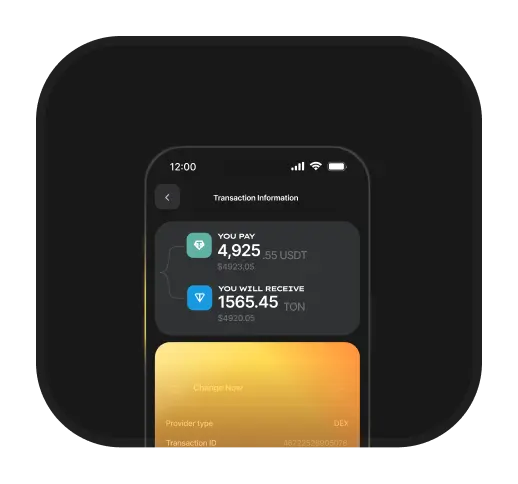
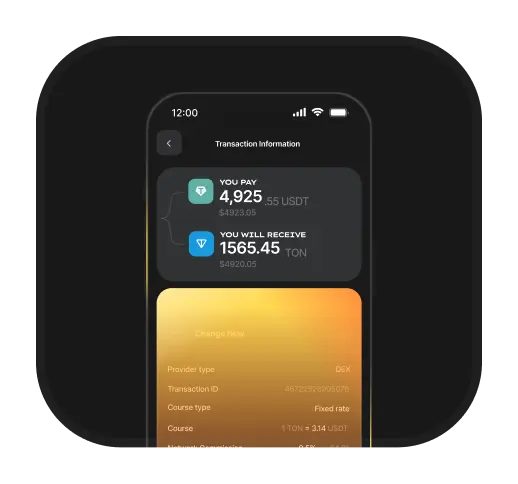
Redesign hero section and card fan animation
- Card fan: fix z-index stacking order, increase FAN_OFFSET to 55px, update spread thresholds
- Intro height: set to 80vh (fixed from 100vh so pin spacer is built correctly, making fan visible)
- Hero greeting: 'Hi. I'm' with period, 28px/300 weight/1.2 line-height, indented 92px to align with avatar
- Hero name: 28px/300 weight/1.2 line-height, margin-bottom 12px
- Hero buttons: 13px font, padding 16px 24px
- Hero layout: hero-inner widened to 976px to match nav pill content width
- ExpComp: top-aligned, 88px height, default 0deg rotation, 10deg on hover
- Intro hover tilt: increased to 12deg
- Nav-inner: restored to 896px

Changed region(s): [[0.278, 0.2169, 0.7413, 0.9298], [0.3089, 0.186, 0.7104, 0.2479]]

diff --git a/index.html b/index.html
@@ -231,13 +231,13 @@
       justify-content: flex-start;
     }
     .hero-inner {
-      max-width: 896px;
+      max-width: 976px;
       margin: 0 auto;
       padding: 48px 40px;
       display: flex;
       flex-direction: column;
     }
-    .hero-greeting { display: flex; flex-direction: column; padding: 0 8px; }
+    .hero-greeting { display: flex; flex-direction: column; padding: 0 8px 0 92px; }
     .hero-middle {
       display: flex;
       flex-direction: row;
@@ -263,18 +263,19 @@
 
     .greeting {
       font-family: 'Unbounded', sans-serif;
-      font-size: 30px; font-weight: 200;
+      font-size: 28px; font-weight: 300;
+      line-height: 1.2;
       color: rgba(255,255,255,0.4);
       margin-bottom: 2px;
     }
     .hero-name {
       font-family: 'Unbounded', sans-serif;
-      font-size: 36px;
-      font-weight: 400;
-      line-height: 1.02;
+      font-size: 28px;
+      font-weight: 300;
+      line-height: 1.2;
       letter-spacing: -0.025em;
       color: var(--text);
-      margin-bottom: 28px;
+      margin-bottom: 12px;
     }
     .hero-avatar-wrap {
       display: flex;
@@ -350,11 +351,11 @@
     }
     .btn-primary {
       display: inline-flex; align-items: center;
-      padding: 12px 28px;
+      padding: 16px 24px;
       background: linear-gradient(180deg, #353537 0%, #1f1e1e 100%);
       color: #fff;
       font-family: 'Unbounded', sans-serif;
-      font-size: 11px; font-weight: 300;
+      font-size: 13px; font-weight: 300;
       letter-spacing: 0.02em;
       border-radius: 12px;
       text-decoration: none;
@@ -371,12 +372,12 @@
     .btn-primary:hover { opacity: 0.85; transform: translateY(-1px); }
     .btn-secondary {
       display: inline-flex; align-items: center; gap: 9px;
-      padding: 12px 24px;
+      padding: 16px 24px;
       background: rgba(72,55,243,0.08);
       border: 1px solid rgba(72,55,243,0.45);
       color: var(--text);
       font-family: 'Unbounded', sans-serif;
-      font-size: 11px; font-weight: 300;
+      font-size: 13px; font-weight: 300;
       letter-spacing: 0.02em;
       border-radius: 12px;
       text-decoration: none;
@@ -389,7 +390,8 @@
     .exp-card {
       flex-shrink: 0;
       width: auto;
-      transform: rotate(3deg);
+      align-self: flex-start;
+      transform: rotate(0deg);
       transform-origin: center center;
       transition: transform 0.35s cubic-bezier(0.34, 1.56, 0.64, 1);
       cursor: grab;
@@ -397,7 +399,7 @@
       position: relative;
     }
     .exp-card:hover {
-      transform: rotate(12deg);
+      transform: rotate(10deg);
     }
     .exp-card.dragging {
       cursor: grabbing;
@@ -407,58 +409,29 @@
     }
     .exp-card img {
       width: auto;
-      height: 120px;
+      height: 88px;
       display: block;
     }
 
     /* ─── CASE STUDIES STACK ─── */
-    .case-stack {
-      --cs-card-h: 400px;
-      padding: 0 2.5vw;
-      min-height: 400vh;
-      margin-bottom: 0vh;
-    }
-    .cs-all {
+    .case-stack { padding: 0 2.5vw; }
+    .cs-cards {
       display: flex;
       flex-direction: column;
-    }
-    .cs-23 {
-      display: flex;
-      flex-direction: column;
-      margin-top: calc(-1 * var(--cs-card-h, 680px));
+      gap: 24px;
     }
     .cs-card {
       width: 100%;
       aspect-ratio: 1120 / 672;
       border-radius: 24px;
-      position: sticky;
       overflow: hidden;
+      position: relative;
+      will-change: transform;
     }
-    .cs-card-1 { top: 80px;  z-index: 1; background: #fdd8d8; }
-    .cs-card-2 { top: 120px; z-index: 2; background: #f5f3f2; }
-    .cs-card-3 { top: 140px; z-index: 3; background: #dcdaf5; margin-top: calc(-1 * var(--cs-card-h, 680px)); transition: margin-top 0.6s cubic-bezier(0.25,0.46,0.45,0.94); }
-    .cs-23 { transition: margin-top 0.6s cubic-bezier(0.25,0.46,0.45,0.94); }
-
-    /* State 1: hero in view, cards staggered-stacked */
-    /* actual card height = 95vw × (672/1120) = 57vw — used directly so --cs-card-h override doesn't affect State 1 */
-    .case-stack[data-state="1"] .cs-23     { margin-top: calc(-57vw + 40px); }
-    .case-stack[data-state="1"] .cs-card-3 { margin-top: calc(-57vw + 40px); }
-
-    /* State 2: card 1 in view, cards spread out */
-    .case-stack[data-state="2"] .cs-23     { margin-top: -20px; }
-    .case-stack[data-state="2"] .cs-card-3 { margin-top: -20px; }
-
-    /* State 3: card 2 in view */
-    .case-stack[data-state="3"] .cs-23     { margin-top: calc(-1 * var(--cs-card-h, 680px)); }
-    .case-stack[data-state="3"] .cs-card-3 { margin-top: 360px; }
-
-    /* State 4: card 3 snaps into sticky view */
-    .case-stack[data-state="4"] .cs-23     { margin-top: calc(-1 * var(--cs-card-h, 680px)); }
-    .case-stack[data-state="4"] .cs-card-3 { margin-top: calc(-57vw + 40px); }
-
-    /* State 5: scroll done — return to staggered stack like State 1 */
-    .case-stack[data-state="5"] .cs-23     { margin-top: calc(-57vw + 40px); }
-    .case-stack[data-state="5"] .cs-card-3 { margin-top: calc(-57vw + 40px); }
+    /* card-3 has highest z-index: it's pulled up most in the fan and sits in front */
+    .cs-card-1 { z-index: 1; background: #fdd8d8; }
+    .cs-card-2 { z-index: 2; background: #f5f3f2; }
+    .cs-card-3 { z-index: 3; background: #dcdaf5; }
 
     /* Card 4: AI Product Builds — rises in from below after card 3 */
     .cs-card-4 {
@@ -1070,12 +1043,8 @@
 
     #intro {
       position: relative;
-      height: 100vh;
-      transition: height 0.6s ease;
+      height: 80vh;
       background: var(--bg);
-    }
-    #intro.intro-hero-visible {
-      height: 85vh;
     }
 
     .intro-stage {
@@ -1098,7 +1067,7 @@
     .intro-hello {
       font-family: 'Unbounded', sans-serif;
       font-size: 24vw;
-      font-weight: 800;
+      font-weight: 300;
       line-height: 0.85;
       letter-spacing: -0.1em;
       width: max-content;
@@ -1215,8 +1184,8 @@
       <div class="hero-inner">
 
         <div class="hero-greeting">
-          <p class="greeting">Hi, I'm</p>
-          <h1 class="hero-name">OLA FAKOMI</h1>
+          <p class="greeting">Hi. I'm</p>
+          <h1 class="hero-name">Ola Fakomi</h1>
         </div>
 
         <div class="hero-middle">
@@ -1257,12 +1226,10 @@
 
   <!-- ─── CASE STUDIES ─── -->
   <section class="case-stack" id="projects">
-    <div class="cs-all">
+    <div class="cs-cards">
       <div class="cs-card cs-card-1"></div>
-      <div class="cs-23">
-        <div class="cs-card cs-card-2"></div>
-        <div class="cs-card cs-card-3"></div>
-      </div>
+      <div class="cs-card cs-card-2"></div>
+      <div class="cs-card cs-card-3"></div>
     </div>
 
     <!-- Card 4: rises in from below after card 3, sticks at top -->
@@ -1433,64 +1400,65 @@
     }
 
 
-    /* ─── Card height CSS variable ─── */
+    /* ─── Case Study Fan Spread ─── */
     (function() {
-      function updateCardHeight() {
-        const card = document.querySelector('.cs-card-1');
-        if (!card) return;
-        document.documentElement.style.setProperty('--cs-card-h', card.offsetHeight + 'px');
-      }
-      updateCardHeight();
-      window.addEventListener('resize', updateCardHeight);
-    })();
+      const card1 = document.querySelector('.cs-card-1');
+      const card2 = document.querySelector('.cs-card-2');
+      const card3 = document.querySelector('.cs-card-3');
+      const card4 = document.querySelector('.cs-card-4');
+      if (!card1) return;
 
-    /* ─── Case Study Scroll States ─── */
-    (function() {
-      const stack   = document.querySelector('.case-stack');
-      const heroSec = document.querySelector('#intro');
-      const card1   = document.querySelector('.cs-card-1');
-      const card2   = document.querySelector('.cs-card-2');
-      const card3   = document.querySelector('.cs-card-3');
-      if (!stack || !heroSec) return;
+      const CARD_GAP = 24; // must match .cs-cards gap in CSS
+      const FAN_OFFSET = 55; // px: how far each card peeks below the one in front
 
-      function lerp(a, b, t) { return a + (b - a) * Math.max(0, Math.min(1, t)); }
+      function lerp(a, b, t) { return a + (b - a) * t; }
 
       function apply() {
-        const heroBottom = heroSec.getBoundingClientRect().bottom;
-        const vh   = window.innerHeight;
-        const sH   = stack.offsetHeight;
-        const prog = Math.max(0, Math.min(1, -stack.getBoundingClientRect().top / Math.max(sH - vh, 1)));
+        const vh      = window.innerHeight;
+        const c1Top   = card1.getBoundingClientRect().top;
+        const cardH   = card1.offsetHeight;
 
-        // State for margin transitions
-        let state;
-        if (heroBottom > vh * 0.5) state = '1';
-        else if (prog < 0.30)      state = '2';
-        else if (prog < 0.65)      state = '3';
-        else if (prog < 0.88)      state = '4';
-        else                       state = '5';
-        if (stack.dataset.state !== state) stack.dataset.state = state;
+        // Fan transforms (constant offsets — pull cards 2 & 3 up to overlap card 1).
+        // These are based purely on card geometry, not scroll position.
+        const fanT2 = -(cardH + CARD_GAP - FAN_OFFSET);          // card2 peeks 55px below card1 top
+        const fanT3 = -(2 * (cardH + CARD_GAP) - FAN_OFFSET * 2); // card3 peeks 110px below card1 top
 
-        // Progressive opacity
-        let op1 = 1, op2 = 1, op3 = 1;
-        if (prog > 0.25 && prog <= 0.60) {
-          const t = (prog - 0.25) / 0.35;
-          op1 = lerp(1, 0.5, t);
-        } else if (prog > 0.60 && prog < 0.88) {
-          const t = (prog - 0.60) / 0.28;
-          op1 = lerp(0.5, 0.2, t);
-          op2 = lerp(1,   0.5, t);
-        } else if (prog >= 0.88) {
-          const t = (prog - 0.88) / 0.12;
-          op1 = lerp(0.2, 1, t);
-          op2 = lerp(0.5, 1, t);
+        // Spread progress: 0 = full fan, 1 = natural document-flow positions (transforms cleared)
+        // Fan held while card1 is below 65% of viewport; spreads as card rises toward top.
+        const spreadStart = vh * 0.65;
+        const spreadEnd   = vh * 0.10;
+        const spreadProg  = Math.max(0, Math.min(1, (spreadStart - c1Top) / (spreadStart - spreadEnd)));
+
+        if (spreadProg < 1) {
+          card2.style.transform = `translateY(${lerp(fanT2, 0, spreadProg)}px)`;
+          card3.style.transform = `translateY(${lerp(fanT3, 0, spreadProg)}px)`;
+        } else {
+          // Spread done — clear all transforms so cards scroll as plain document flow
+          card2.style.transform = '';
+          card3.style.transform = '';
         }
 
-        if (card1) card1.style.opacity = op1;
-        if (card2) card2.style.opacity = op2;
-        if (card3) card3.style.opacity = op3;
+        // Fade cards 1–3 as card4 (AI Builds) rises into view
+        if (card4) {
+          const card4Top  = card4.getBoundingClientRect().top;
+          const card4Prog = Math.max(0, Math.min(1, (vh - card4Top) / vh));
+          const op = 1 - Math.min(1, card4Prog * 2);
+          card1.style.opacity = op;
+          card2.style.opacity = op;
+          card3.style.opacity = op;
+        }
       }
 
-      window.addEventListener('scroll', apply, { passive: true });
+      // Sync with Lenis for buttery smooth animation frames
+      function attach() {
+        if (window.__lenis) {
+          window.__lenis.on('scroll', apply);
+        } else {
+          window.addEventListener('scroll', apply, { passive: true });
+        }
+      }
+      window.addEventListener('load', attach);
+      window.addEventListener('resize', apply);
       apply();
     })();
 

diff --git a/src/intro.js b/src/intro.js
@@ -7,6 +7,7 @@ gsap.registerPlugin(ScrollTrigger);
 
 // ─── Lenis smooth scroll ──────────────────────────────────────────────────────
 const lenis = new Lenis({ autoRaf: false });
+window.__lenis = lenis; // expose for other scripts (e.g. card stack)
 
 // Keep ScrollTrigger in sync with Lenis's virtual scroll position
 lenis.on('scroll', ScrollTrigger.update);
@@ -167,7 +168,7 @@ document.querySelectorAll('.intro-item:not(.intro-hello)').forEach(el => {
     if (hovered) return;
     hovered = true;
     baseRot = gsap.getProperty(el, 'rotation');
-    gsap.to(el, { rotation: baseRot + 8, duration: 0.45, ease: 'back.out(1.7)', overwrite: 'auto' });
+    gsap.to(el, { rotation: baseRot + 12, duration: 0.45, ease: 'back.out(1.7)', overwrite: 'auto' });
   });
 
   el.addEventListener('mouseleave', () => {
